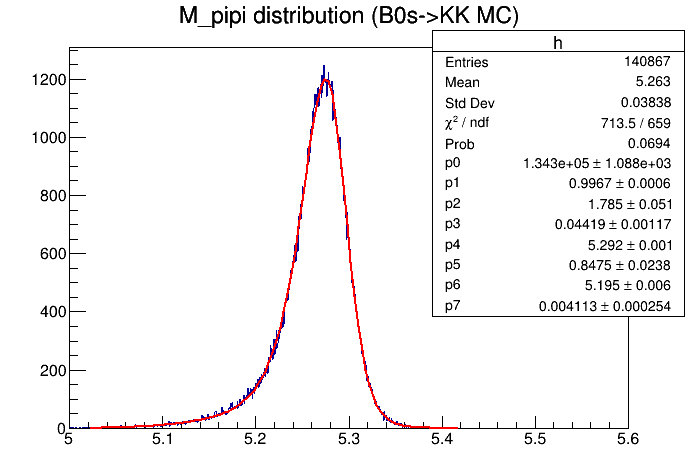
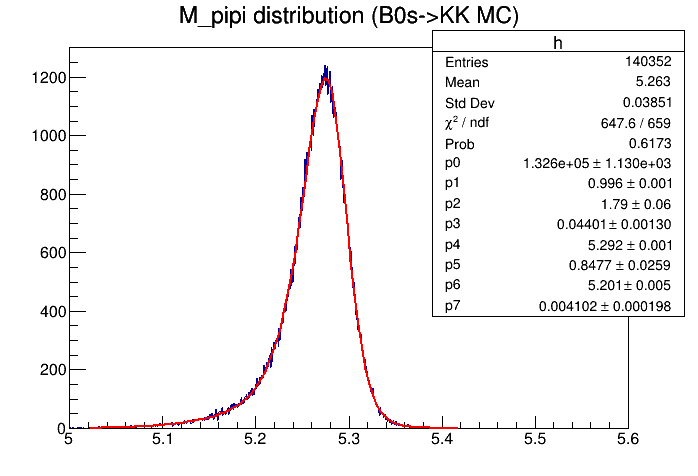
template_fit.py adjustments

diff --git a/template_fit/template_fit.py b/template_fit/template_fit.py
@@ -5,6 +5,7 @@ population present in the dataset Bhh_data.root
 
 import time
 import ROOT
+import os
 import numpy as np
 from template_functions import DoubleGaussian, GaussJohnson
 
@@ -14,17 +15,17 @@ def fit_on_montecarlo(df, var, fitfunc, img_name="template.png", Nbins=1000,
     """
     """
     ROOT.gStyle.SetOptFit(11111)
-    h = df.Histo1D((h_name, h_title, Nbins, LowLim, UpLim), var)
+    h = df.Histo1D((h_name, h_title, Nbins, 5.0, 5.6), var)
 
     # [fitfunc.SetParameter(k, pars[k]) for k in range(len(pars))]
     fitvar = h.Fit(fitfunc, "SQLR")
-    '''
+
     c = ROOT.TCanvas()
     c.cd()
     h.Draw()
     fitfunc.Draw("same")
     c.SaveAs(img_name)
-    '''
+
     print(f'Chi2 = {fitvar.Chi2()}')
     print(f'Ndof = {fitvar.Ndf()}')
     print(f'Prob = {fitvar.Prob()}')
@@ -36,19 +37,19 @@ def fit_on_montecarlo(df, var, fitfunc, img_name="template.png", Nbins=1000,
     return exit_pars
 
 
-def fit_on_data(df, dfmc1, dfmc2, var, img_name="Fit_data.png",
-                Nbins=1000, h_name="h", h_title="h", LowLim=5., UpLim=5.6):
+def fit_on_data(df, dfmc1, dfmc2, var, img_name="fig/Fit_data.png",
+                Nbins=1000, h_name="h", h_title="h", LowLim=5.0, UpLim=5.6):
     """
     """
     templ_pars_pi = fit_on_montecarlo(dfmc1, var, DoubleGaussian(5.02, 5.42),
-                                 img_name='fig/template_fit_pi.png',
-                                 h_title='M_pipi distribution (B0->PiPi MC)')
+                                      img_name='fig/template_fit_pi.png',
+                                      h_title='M_pipi distribution (B0->PiPi MC)')
     templ_pars_k = fit_on_montecarlo(dfmc2, var, GaussJohnson(5.02, 5.42),
-                                img_name='fig/template_fit_k.png',
-                                h_title='M_pipi distribution (B0s->KK MC)')
+                                     img_name='fig/template_fit_k.png',
+                                     h_title='M_pipi distribution (B0s->KK MC)')
     #ROOT.gStyle.SetOptStat(0)
     ROOT.gStyle.SetOptFit(11111)
-    h = df.Histo1D((h_name, h_title, Nbins, LowLim, UpLim), var)
+    h = df.Histo1D((h_name, h_title, Nbins, 5.0, 5.6), var)
 
     f_data = ROOT.TF1("f_data", ROOT.TemplateComposition, LowLim, UpLim, 16)
     # Per tenere sotto controllo che fa TemplateComposition è meglio costruire
@@ -74,12 +75,15 @@ def fit_on_data(df, dfmc1, dfmc2, var, img_name="Fit_data.png",
 
 
 if __name__ == "__main__":
-    file1 = '../root_files/tree_B0PiPi_mc.root'
-    file2 = '../root_files/tree_B0sKK_mc.root'
-    file_data = '../root_files/tree_Bhh_data.root'
-    tree = 't_M0pipi;2'
+    current_path = os.path.dirname(__file__)
+    filenames = ['tree_B0PiPi.root', 'tree_B0sKK.root', 'tree_Bhh_data.root']
+    rel_path = '../root_files'
+    filepaths = [os.path.join(current_path, rel_path, file)
+                 for file in filenames]
+    tree = 't_M0pipi;1'
     var = 'M0_Mpipi'
 
-    df_pi, df_k, df_data = ROOT.RDataFrame(tree, file1), ROOT.RDataFrame(tree, file2), ROOT.RDataFrame('t_M0pipi;1', file_data)
+    dataframes = [ROOT.RDataFrame(tree, filepath) for filepath in filepaths]
+    df_pi, df_k, df_data = dataframes
 
     fit_on_data(df_data, df_pi, df_k, var, LowLim=5.02, UpLim=5.42)

diff --git a/template_fit/template_functions.py b/template_fit/template_functions.py
@@ -2,6 +2,7 @@
 """
 
 import ROOT
+import os
 import numpy as np
 
 
@@ -10,14 +11,22 @@ def InitializeFunctionsLibrary():
     Function that loads into the Python environment the shared library
     containing the fit functions.
     """
-    load_head = ROOT.gSystem.Load('#include "fit_functions.h"')
+    load_head = ROOT.gInterpreter.Load('#include "fit_functions.h"')
     if not load_head:
         print("ERROR in header load")
         quit()
     success = ROOT.gSystem.CompileMacro('fit_functions.cpp', opt="ks")
     if not success:
-        print("ERROR in source code compilation")
-        quit()
+        lib_file = ''
+        for root, dirnames, filenames in os.walk("."):
+            for filename in filenames:
+                if '.so' in filename:
+                    lib_file = os.path.join(root, filename)
+        if lib_file == '':
+            print("ERROR in source code compilation")
+            quit()
+        else:
+            ROOT.gSystem.Load(lib_file)
 
 
 def BreitWigner(LowLim, UpLim, funcname='BW', pars=(2000, 5.28, 0.5)):
